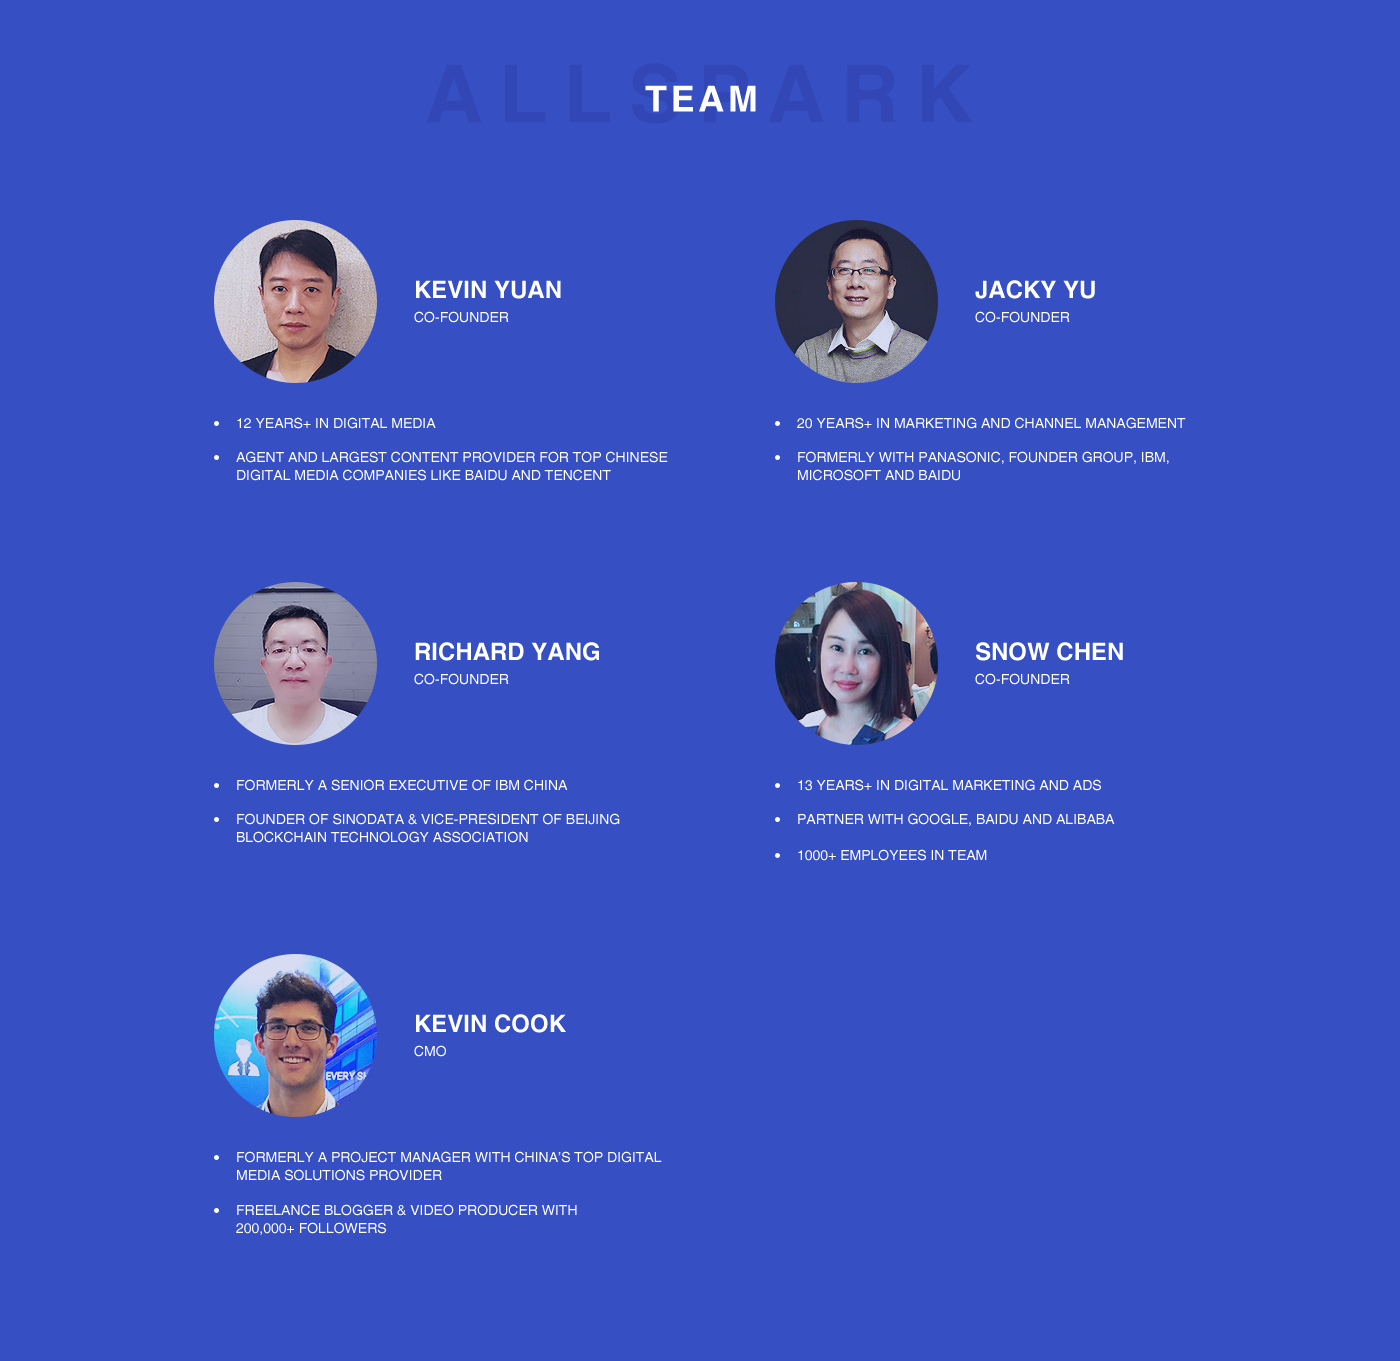
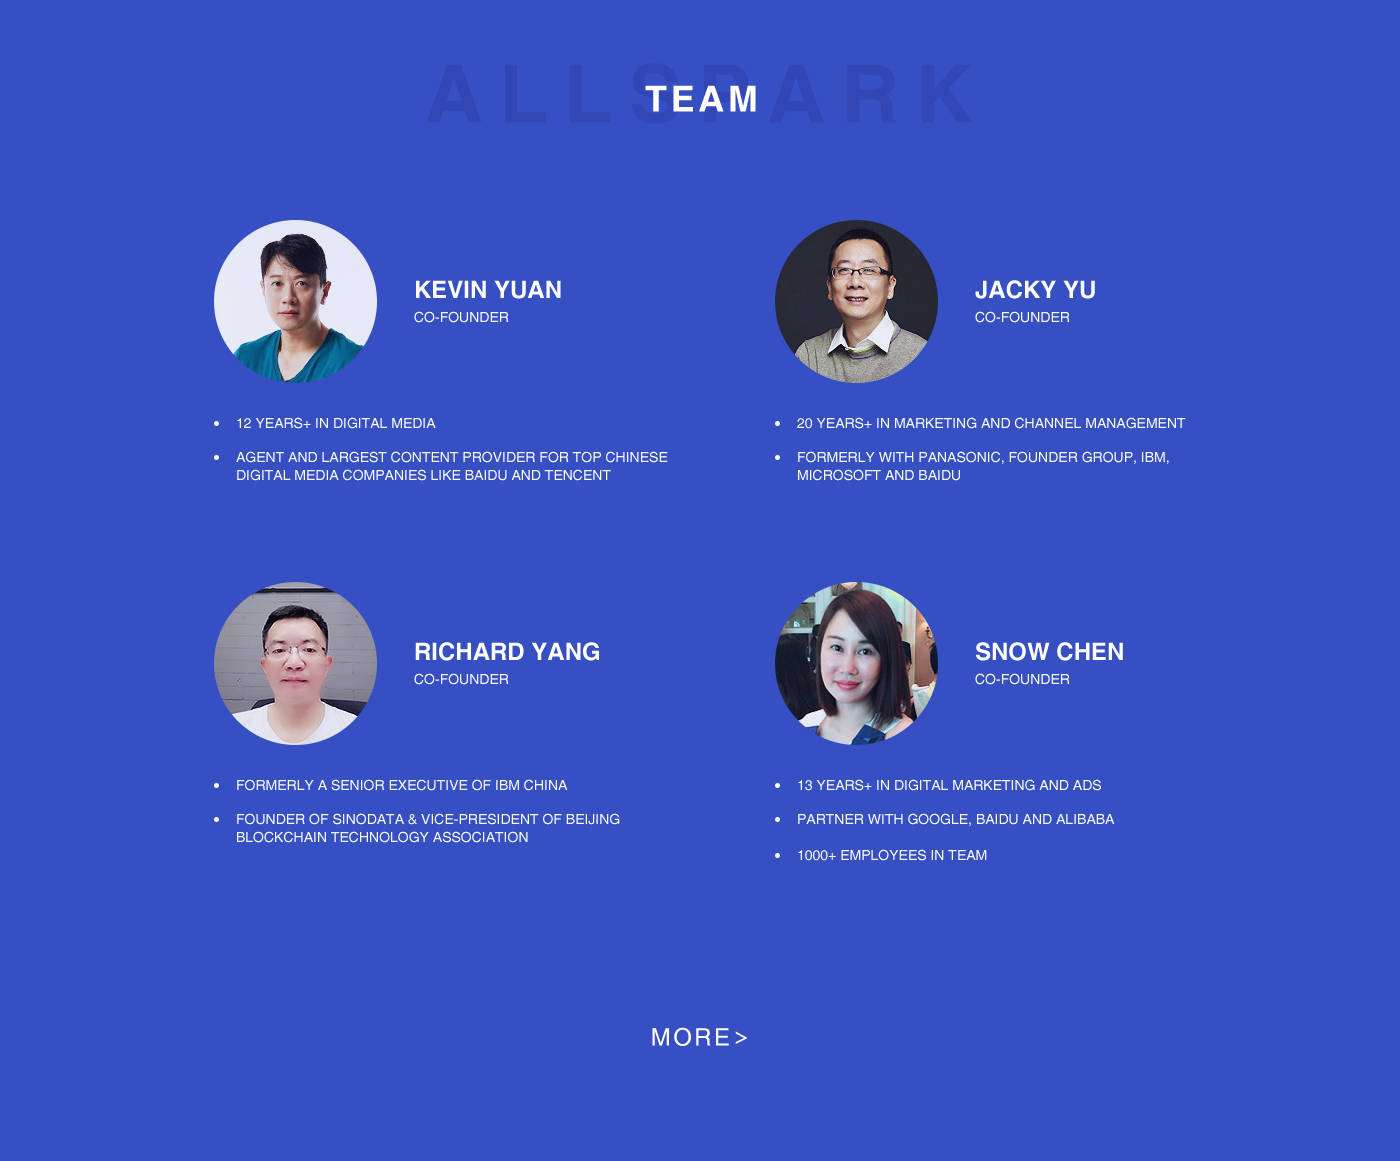
allspark

diff --git a/allspark/css/main.css b/allspark/css/main.css
@@ -199,17 +199,51 @@ header li.on span,header li:hover span{
 }
 .img9{
     width: 100%;
-    height: 1361px;
-    background: url("../images/allspark_09.png?v1") no-repeat center top;
+    height: 1161px;
+    position: relative;
+    background: url("../images/allspark_09.png?v5") no-repeat center top;
+}
+.more{
+    position: absolute;
+    bottom: 80px;
+    left: 50%;
+    margin: 0 0 0 -65px;
+    width: 130px;
+    height: 60px;
 }
 .img10{
     width: 100%;
     height: 434px;
-    background: url("../images/allspark_10.png?v1") no-repeat center top;
+    background: url("../images/allspark_10.png?v2") no-repeat center top #ffffff;
 }
 .img10 .spaCon{
     padding-top: 233px;
     height: 201px;
+}
+.scroolMenu{
+    width: 105px;
+    height: 103px;
+    background: url("../images/top2.png?v1") no-repeat center top;
+    position: fixed;
+    left: 50%;
+    bottom: 50px;
+    margin-left: 705px;
+}
+.scroolMenu a.chat{
+    display: block;
+    width: 67px;
+    height: 67px;
+    background: url("../images/partner.png") no-repeat -350px -84px;
+    margin: -30px auto 0;
+}
+.scroolMenu a.chat:hover{
+    background-position: -350px 0;
+}
+.scroolMenu a.top{
+    display: block;
+    width: 100%;
+    height: 50px;
+    margin-top: 10px;
 }
 .spaPartner{
     width: 100%;
@@ -319,4 +353,73 @@ header li.on span,header li:hover span{
 }
 .icoTable tr td.three{
     background: #f5f7ff;
+}
+
+/* team */
+.team-nav{
+    width: 100%;
+    height: 100px;
+    background: #3650c3;
+}
+.team-nav-wrap{
+    width: 1100px;
+    height: 100px;
+    margin: 0 auto;
+}
+.team-logo{
+    float: left;
+    width: 150px;
+    height: 100px;
+    margin: 0 50px;
+    background: url("../images/team_logo.png") no-repeat;
+}
+.nav-ul{
+
+}
+
+.nav-ul li a{
+    color:#fff;
+    text-decoration: none;
+}
+
+.nav-ul li{
+    float: left;
+    margin-left: 46px;
+    color: #ffffff;
+    font-size: 16px;
+    line-height: 100px;
+    cursor: pointer;
+    position: relative;
+}
+.nav-ul li span{
+    display: block;
+    width: 100%;
+    height: 2px;
+    position: absolute;
+    bottom: 30px;
+    left: 0;
+}
+.nav-ul li.on span,.nav-ul li:hover span{
+    background: #fff;
+}
+.teamWrap{
+    width: 1400px;
+    min-height: 3600px;
+    margin: 0 auto;
+    /* background: url("../images/team_bg.jpg") no-repeat; */
+}
+.team1,.team2{
+    width: 1100px;
+    display: block;
+    margin: 0 auto;
+}
+.team1{
+    height: 1630px;
+    background: url("../images/team1.jpg?v=2") no-repeat;
+    background-size: 100% 100%;
+}
+.team2{
+    height: 1800px;
+    background: url("../images/team2.jpg") no-repeat;
+    background-size: 100% 100%;
 }

diff --git a/allspark/index.html b/allspark/index.html
@@ -25,8 +25,8 @@
             <li>ADVANTAGES<span></span></li>
             <li>SCENARIO<span></span></li>
             <li>ABOUT US<span></span></li>
-            <li>TEAM<span></span></li>
-            <li><a style=" color: #fff; text-decoration: none;" href="ico_intro.html">ICO PLAN</a><span></span></li>
+            <li><a style=" color: #fff; text-decoration: none;" href="team.html" target="_blank">TEAM</a><span></span></li>
+            <li><a style=" color: #fff; text-decoration: none;" href="ico_intro.html" target="_blank">ICO PLAN</a><span></span></li>
         </ul>
     </div>
 </header>
@@ -39,7 +39,7 @@
             <li>ADVANTAGES<span></span></li>
             <li>SCENARIO<span></span></li>
             <li>ABOUT US<span></span></li>
-            <li>TEAM<span></span></li>
+            <li><a style=" color: #fff; text-decoration: none;" href="team.html" target="_blank">TEAM</a><span></span></li>
             <li><a style=" color: #fff; text-decoration: none;" href="ico_intro.html">ICO PLAN</a><span></span></li>
         </ul>
     </div>
@@ -99,18 +99,28 @@
         <div class="img7"></div>
     </div>
     <div class="spaSec5"><div class="img8"></div></div>
-    <div class="spaSec6"><div class="img9"></div></div>
+    <div class="spaSec6">
+        <div class="img9">
+            <a class="more" href="team.html"></a>
+        </div>
+    </div>
     <div class="img10">
         <div class="spaCon">
             <div class="spaPartner">
                 <a target="_blank" href="https://www.facebook.com/allsparkchain/" class="a1"></a>
                 <a target="_blank" href="https://twitter.com/allsparkchain" class="a2"></a>
                 <a target="_blank" href="https://github.com/allsparkchain" class="a3"></a>
-                <a target="_blank" href="https://t.me/allsparkchat" class="a4"></a>
+                <!-- <a target="_blank" href="https://t.me/allsparkchat" class="a4"></a> -->
             </div>
             <a href="mailto:pr@allsparkchain.org" class="spaMail"></a>
         </div> 
     </div>
+
+    <div class="scroolMenu">
+        <a class="chat" target="_blank" href="https://t.me/allsparkchat"></a>
+        <a class="top" href="javascript:;"></a>
+    </div>
+
 </section>
 
 <script type="text/javascript" src="js/jquery.min.js"></script>
@@ -152,7 +162,7 @@
 
     });
 
-    $(".subNav img").click(function () {
+    $(".subNav img,.scroolMenu a.top").click(function () {
         $("html,body").animate({scrollTop: $(".spaSec1").offset().top}, 1000);
         //$("header li").eq(0).addClass("on").siblings().removeClass("on");
     });

diff --git a/allspark/team.html b/allspark/team.html
@@ -1,0 +1,43 @@
+
+<!doctype html>
+<html class="no-js" lang="">
+<head>
+    <meta charset="utf-8">
+    <meta http-equiv="x-ua-compatible" content="ie=edge">
+    <title>ALL SPARK</title>
+    <meta name="description" content="">
+    <meta name="viewport" content="width=device-width,minimum-scale=1.0,maximum-scale=1.0,user-scalable=no">
+    <meta name="format-detection" content="telephone=no">
+    <link rel="icon" href="images/favicon.ico" type="image/x-icon" />
+    <link rel="manifest" href="site.webmanifest">
+    <link rel="apple-touch-icon" href="icon.png">
+    <meta name="viewport" content="width=1400">
+    <link rel="stylesheet" href="css/normalize.css">
+    <link rel="stylesheet" href="css/main.css">
+    <style>
+    body{
+        background: #f9faff;
+    }
+    </style>
+</head>
+<body style=" background: #fff;">
+    <div class="team-nav">
+        <div class="team-nav-wrap">
+            <div class="team-logo"></div>
+            <ul class="nav-ul">
+                <li ><a href="index.html">HOME</a><span></span></li>
+                <li><a href="index.html">VALUE</a><span></span></li>
+                <li><a href="index.html">ADVANTAGES</a><span></span></li>
+                <li><a href="index.html">SCENARIO</a><span></span></li>
+                <li><a href="index.html">ABOUT US</a><span></span></li>
+                <li class="on"><a href="index.html">TEAM</a><span></span></li>
+                <li><a href="index.html">ICO PLAN</a><span></span></li>
+            </ul>
+        </div>
+    </div>
+    <div class="teamWrap">
+        <div class="team1"></div>
+        <div class="team2"></div>
+    </div>
+</body>
+</html>
